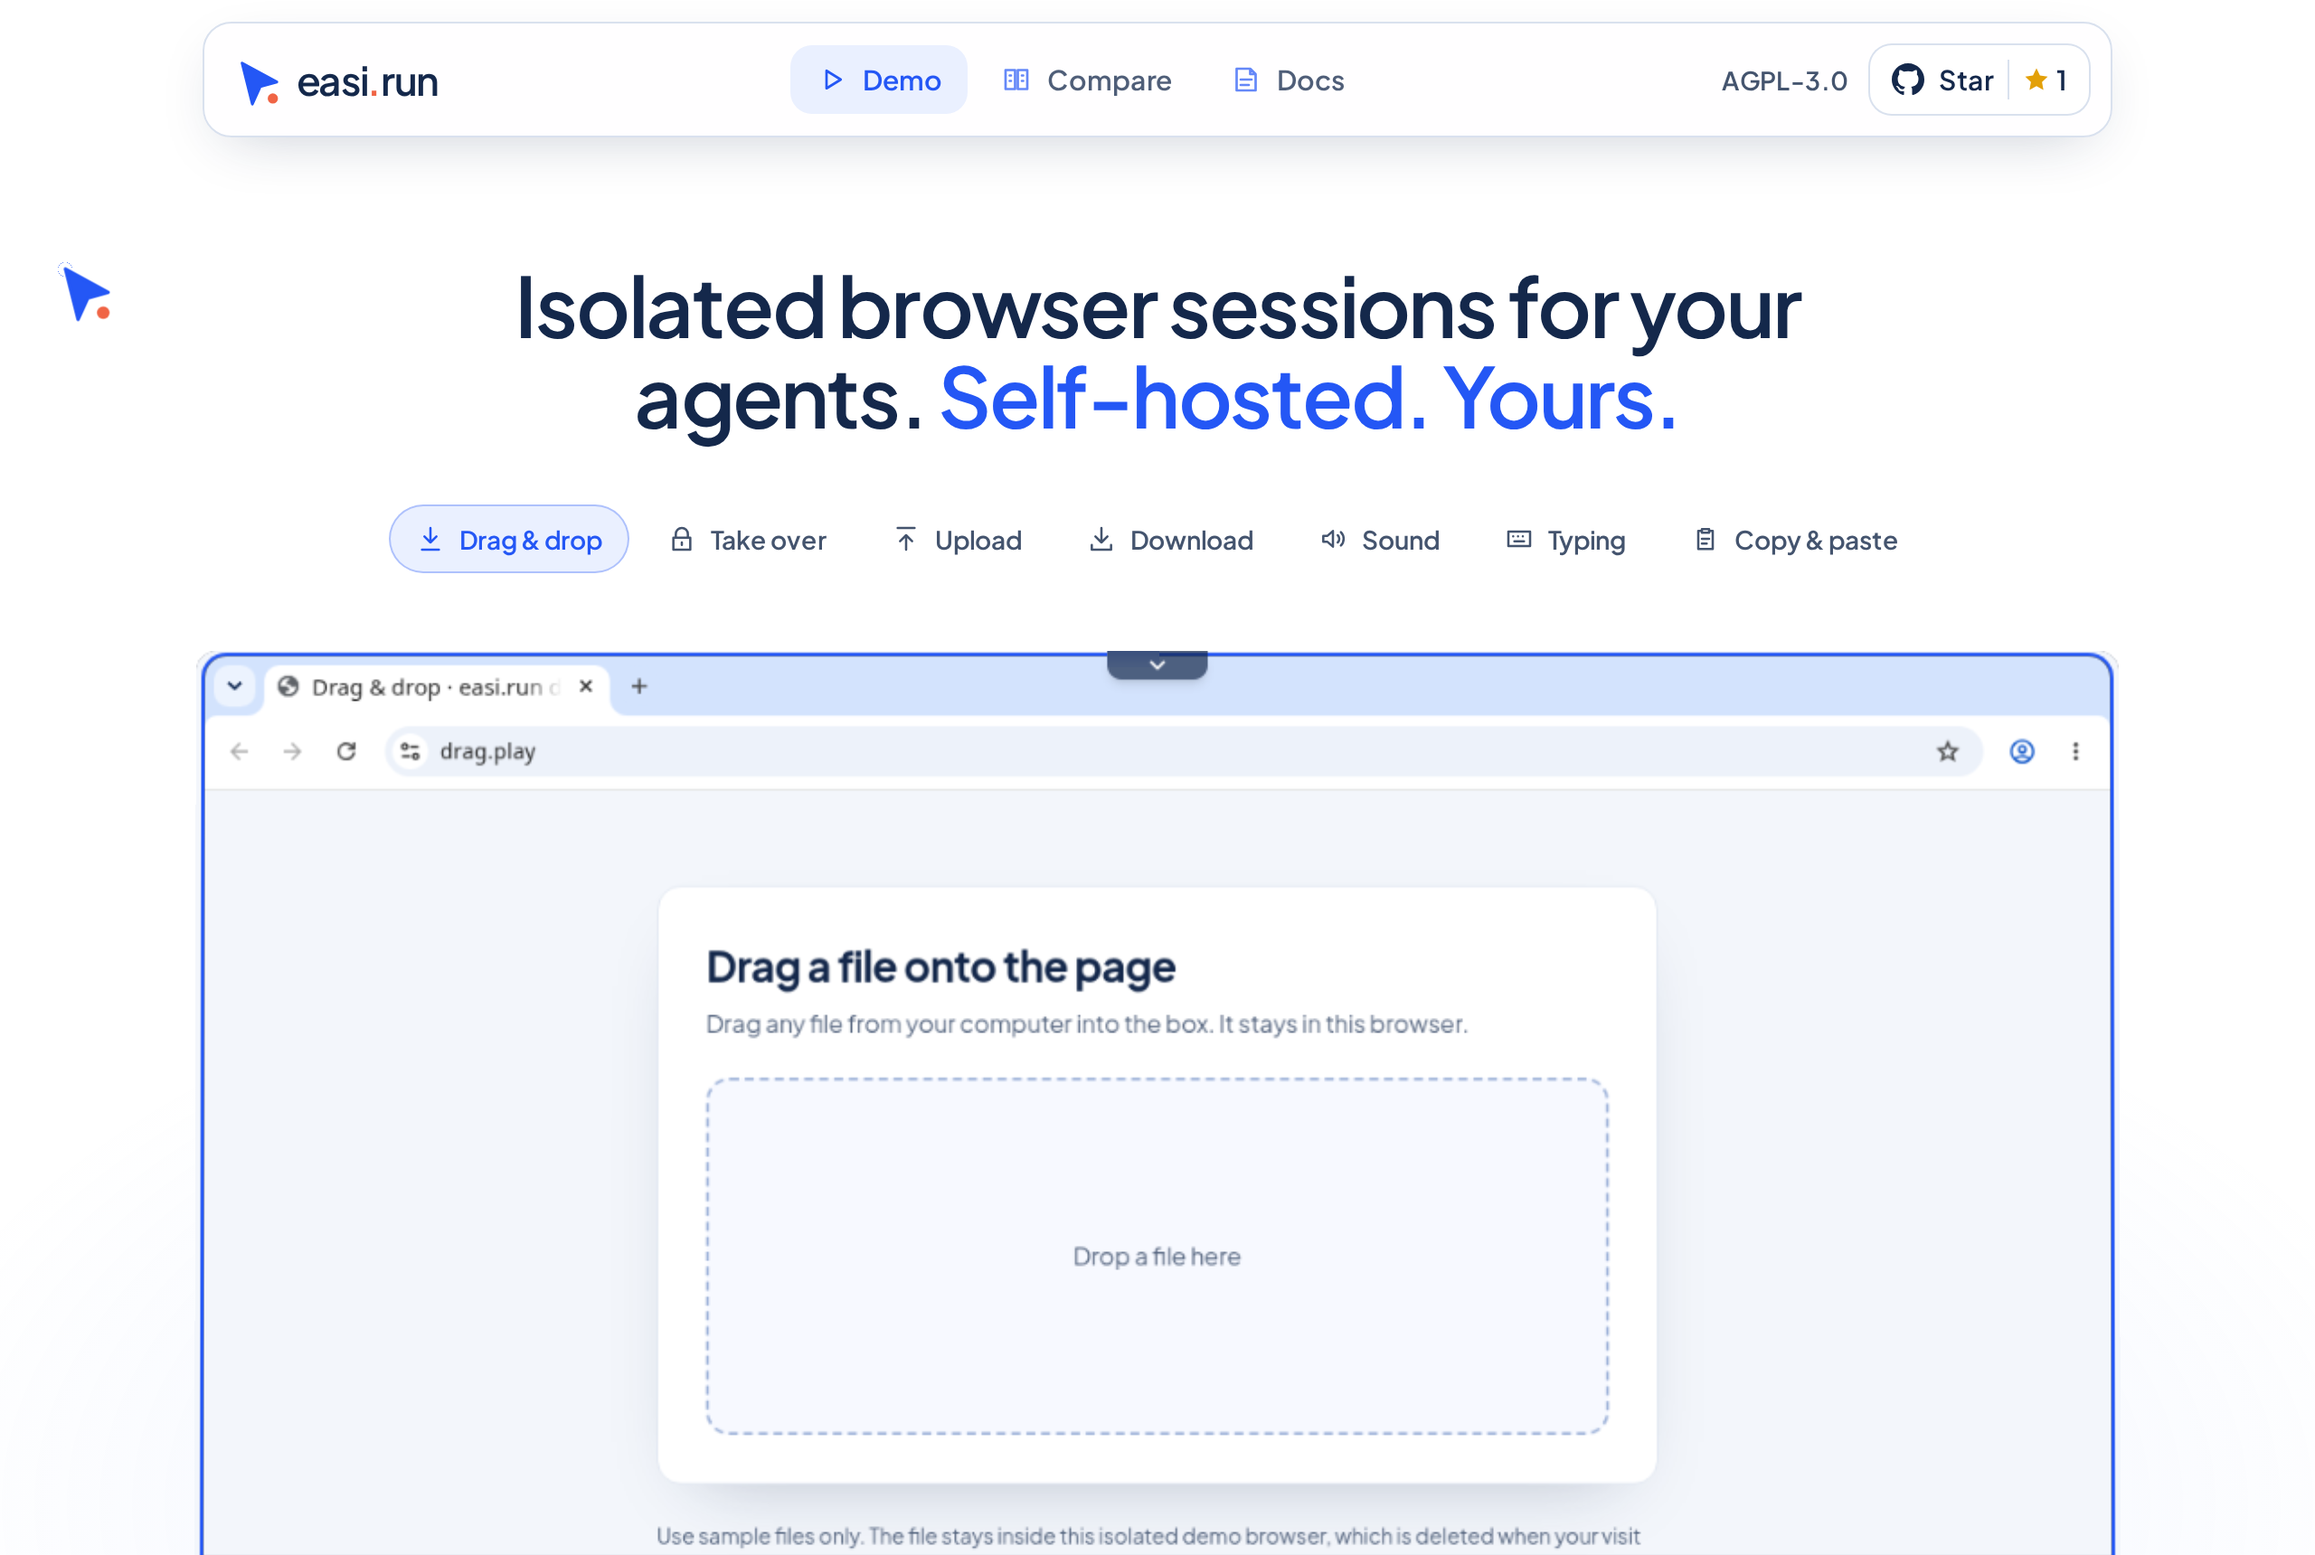
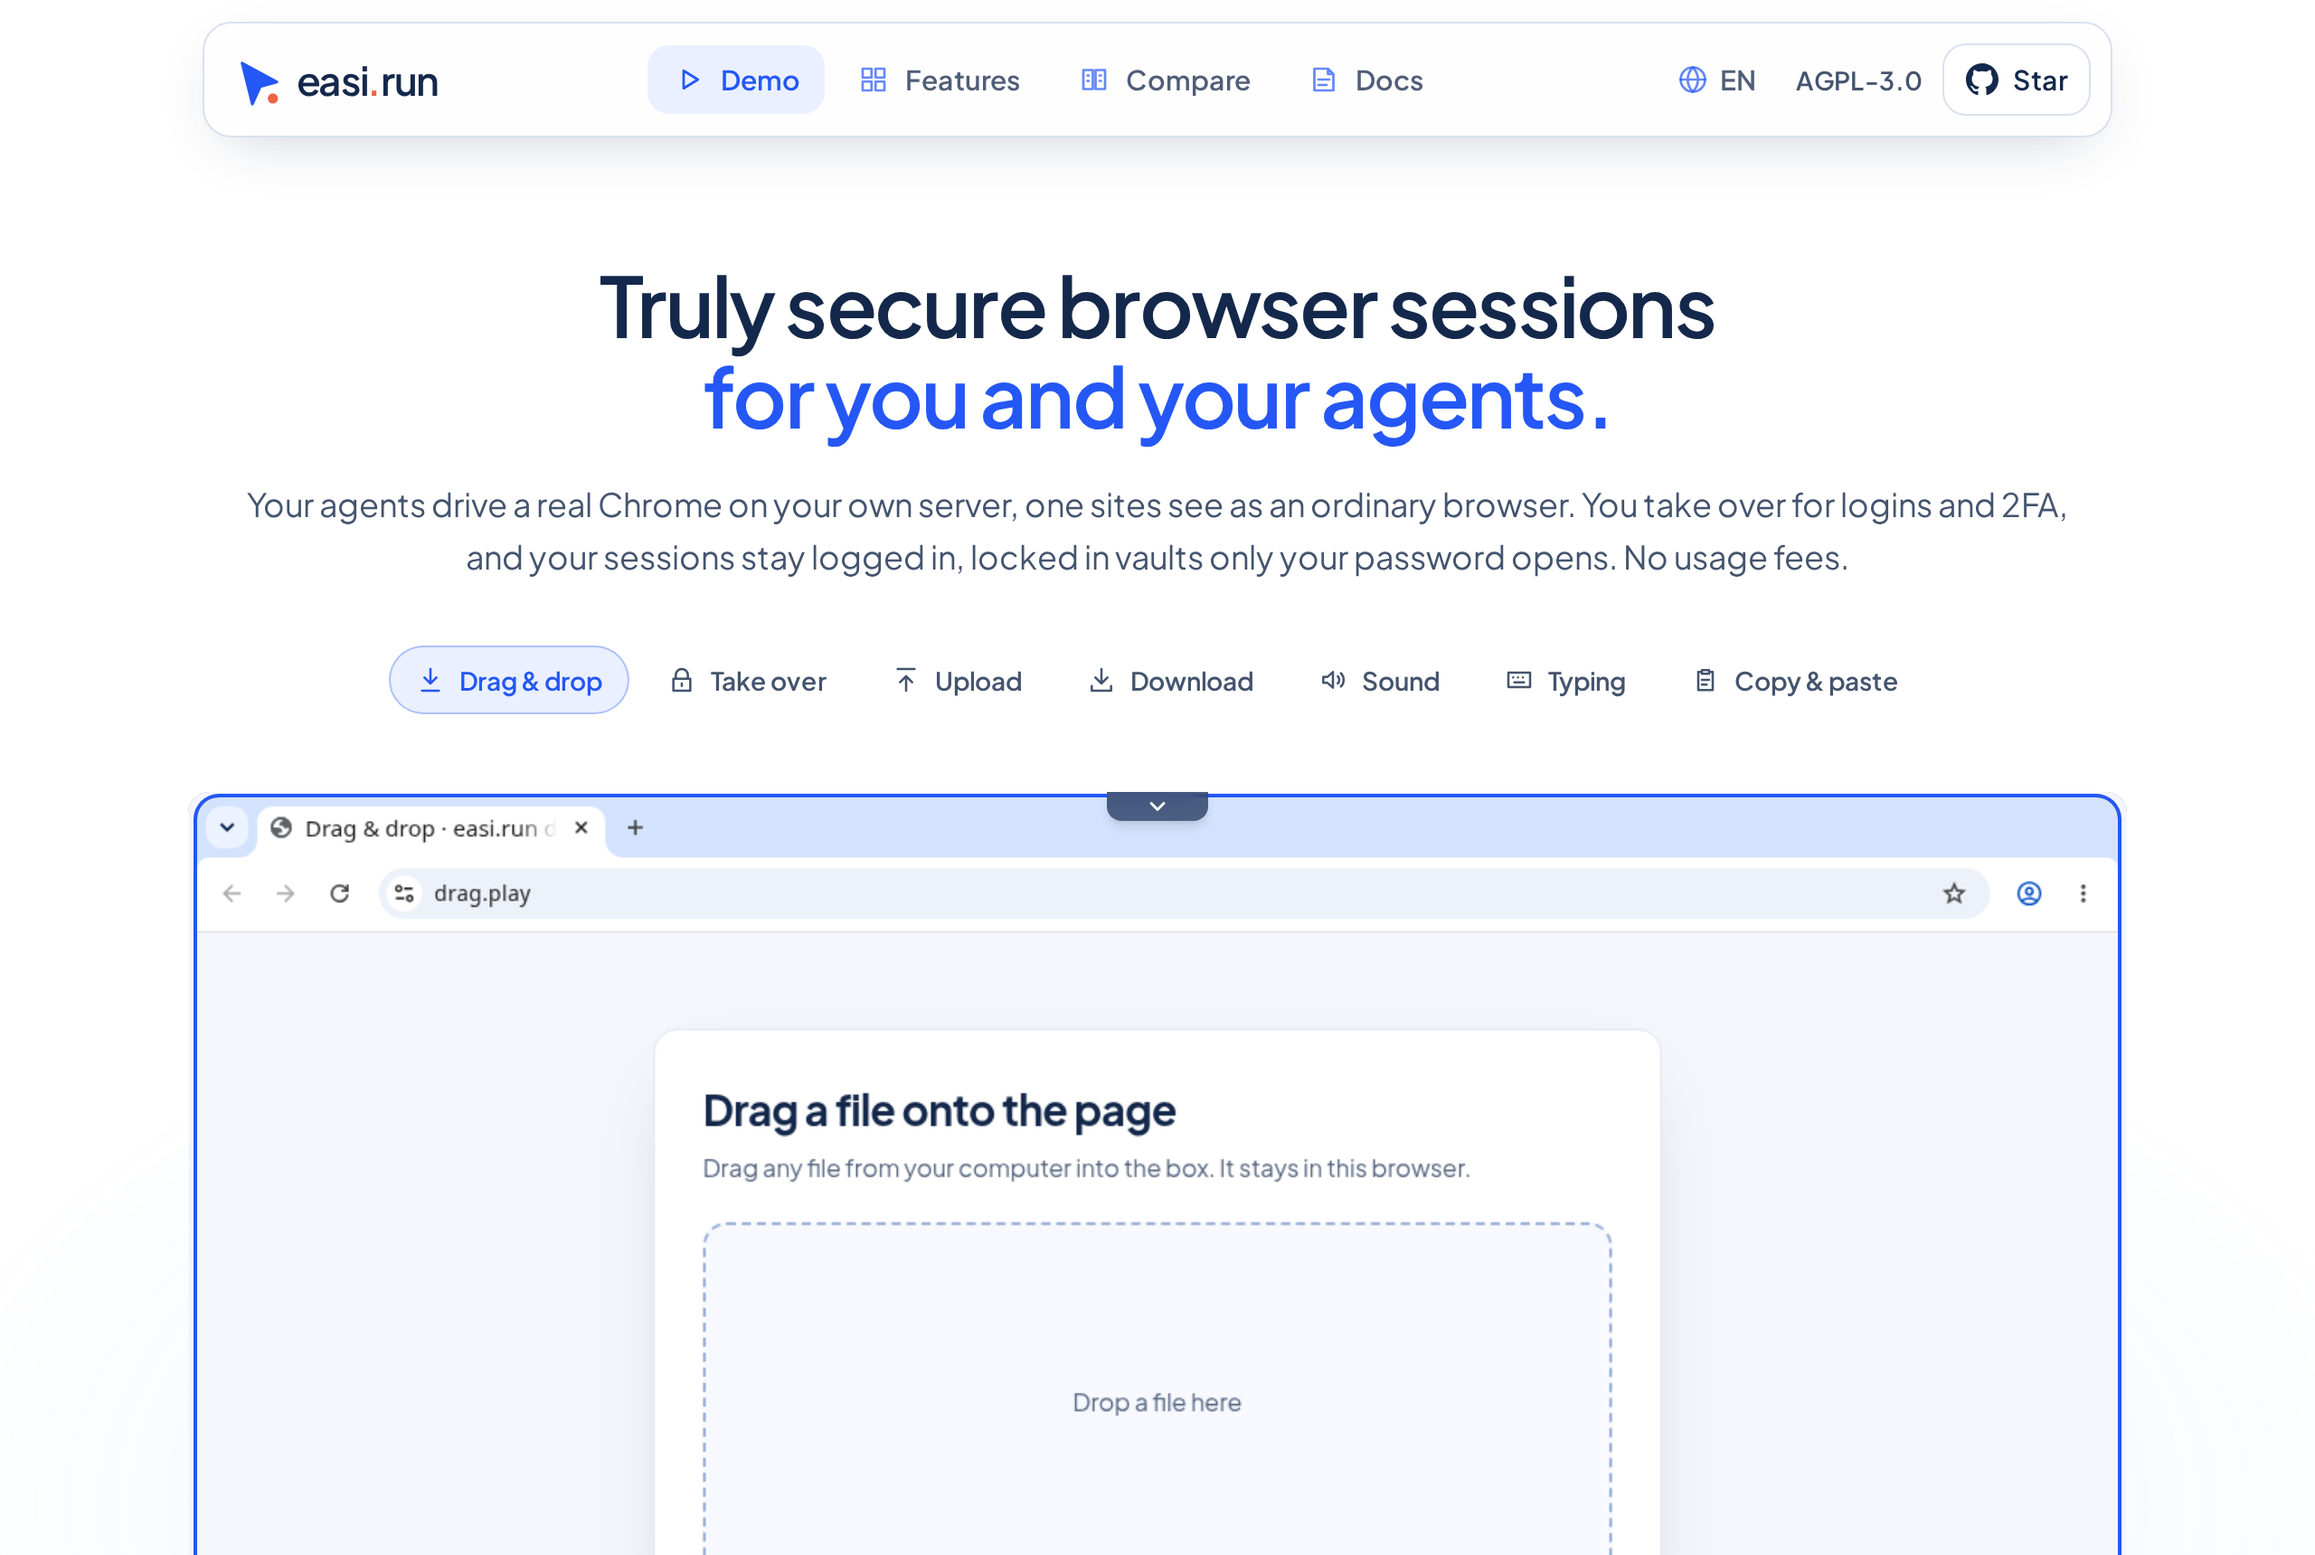
docs: Show the current landing in the README and correct what no longer holds
The README's picture showed the landing before its new headline and its
Features page; it now shows the page as it is, at the same size. Its
links name the Features page. The redaction, MCP, proxy and sign-in
lines now say exactly what the code does: password fields and exact
text, MCP with no token on the server or over SSH, a suggested time
zone and languages, and one count for wrong passwords and codes. The
requirements and the agent's install guide list every command the
installer needs, realpath among them; CONTRIBUTING and SECURITY catch
up with the notices' checks, pins per image flavour and saved sessions
an agent token may reach.

diff --git a/README.md b/README.md
@@ -17,8 +17,8 @@ a login, a 2FA code or a CAPTCHA. Then hand it back.
 [![Built with Rust](https://img.shields.io/badge/built_with-Rust-b7410e?logo=rust)](https://www.rust-lang.org)
 [![MCP](https://img.shields.io/badge/MCP-built--in-6e56cf)](https://docs.easi.run/#/agents)
 
-[**▶ Try the live demo**](https://easi.run/demo/) · [Documentation](https://docs.easi.run) ·
-[Quick start](#quick-start) · [Compare](https://easi.run/compare/)
+[**▶ Try the live demo**](https://easi.run/demo/) · [Features](https://easi.run/features/) ·
+[Documentation](https://docs.easi.run) · [Quick start](#quick-start) · [Compare](https://easi.run/compare/)
 
 <a href="https://easi.run/demo/"><img src="docs/assets/hero.png" alt="easi.run: a live Chrome session in your browser, with drag and drop, takeover, uploads, downloads, sound, typing, and copy and paste" width="860"></a>
 
@@ -42,8 +42,9 @@ on.
 - 🔑 **Stay logged in.** A persistent session brings back your logins, site data (caches aside), history and
   preferences each time you resume it, on any site that keeps you logged in when Chrome closes, encrypted with a key only your password
   unlocks ([how](docs/security.md#boundaries)).
-- 🔒 **Your passwords stay yours.** Text of four characters or more you type or paste while you are in control reaches
-  the agent as `[redacted]` ([how](docs/security.md#boundaries)).
+- 🔒 **What you type stays yours.** What's in a password field never reaches your agent. Once you take over,
+  screenshots stop, and the exact text you type or paste, four characters or more, reaches it as `[redacted]`
+  ([how](docs/security.md#boundaries)).
 - 🧱 **Every browser in its own sandbox.** Its own containers, no network of its own, and no way into your private
   network ([security model](docs/security.md)).
 - 🕵 **A real Chrome that sites treat as a real Chrome.** Google Chrome itself, clean on BrowserScan, sannysoft and
@@ -51,9 +52,12 @@ on.
 - 📁 **Files, sound and clipboard just work.** Drag a file onto the page, pick one with the page's own upload
   button, get downloads straight into your Downloads folder, hear the page, and copy and paste both ways.
 - 🎥 **Record a session** on the server in high quality, with your camera and microphone if you like.
-- 🤖 **Plugs into your agent.** A built-in [MCP server](https://docs.easi.run/#/agents) that works with Claude Code,
-  and a plain REST API, each with its own token per agent.
-- 🌍 **Your own proxy per session**, with the browser's time zone and languages set to match where it connects from.
+- 🤖 **Plugs into your agent.** A built-in [MCP server](https://docs.easi.run/#/agents) for Claude Code, Codex and any
+  MCP client: on your server or over SSH with no token, or over HTTPS with one token per agent. The same tools over a
+  plain REST API. The installer adds it to Claude Code for you when Claude Code is there and has no other server
+  named `easi`.
+- 🌍 **Your own proxy per session**, checked before use, with the browser's time zone and languages suggested from
+  where it exits.
 - ⚡ **Fast and light.** Crisp text, smooth video, and a fraction of the bandwidth of a VNC stream (numbers below).
 
 ## How it compares
@@ -97,7 +101,7 @@ covers 19 alternatives, with [the sources and notes](docs/comparison.md) (Octobe
 | | Minimum | Comfortable |
 |---|---|---|
 | Server | Any Linux x86-64 machine with Docker: a VPS from any cloud (Hetzner, DigitalOcean, AWS EC2 x86…) or your own server | |
-| Software | Docker Engine 28+ (rootful, run by docker.service) with Compose and Buildx, systemd, git, curl and flock | |
+| Software | Docker Engine 28+ (rootful, run by docker.service) with Compose and Buildx, systemd, git, curl, flock, iptables, ss, awk, stat, df, timeout and realpath | |
 | Account | A non-root user in the docker group (`sudo usermod -aG docker $USER`, then log in again); no sudo needed: the installer makes its few changes as root through a short-lived privileged Docker container, which Docker must allow | |
 | CPU | 2 cores | 4+ cores |
 | Memory | 4 GB (one browser session at a time) | 8 GB+ (2 sessions at once on 8 GB, 4 on 16 GB) |
@@ -157,8 +161,9 @@ in `~/easi.run`) for you to compare.
 Open `https://localhost:9443` (from your computer, through the SSH tunnel of step 2) right after the install: until a
 password is set, the admin's first screen asks for one. Choose it, 12 characters or more; you are logged in at once.
 
-- The admin keeps only its Argon2id hash. The fifth wrong password in a row starts a 2-second wait before the next
-  attempt, and each further wrong one doubles it, up to 256 seconds.
+- The admin keeps only its Argon2id hash. Wrong passwords and wrong second-step codes count together: the fifth
+  starts a 2-second wait before the next attempt, each further one doubles it, up to 256 seconds, and a completed
+  sign-in starts the count over.
 
 Next, the admin offers a second step at sign-in. It is optional, and we suggest it: with it on, your password alone
 opens nothing.
@@ -287,8 +292,9 @@ flowchart LR
     admin --> controller --> docker
 ```
 
-A small compositor written in Rust (`display`) draws Chrome's windows into its own memory. Text and still content
-travel as lossless tiles, motion as AV1 video, and the page's sound as Opus, over one HTTPS port, and over UDP
+A small compositor written in Rust (`display`) draws Chrome's windows into its own memory. Still content travels as
+lossless tiles; motion stays lossless while that is cheap, and otherwise streams as AV1 video that sharpens to
+pixel-perfect once motion stops; the page's sound travels as Opus, over one HTTPS port, and over UDP
 (WebTransport) where your network lets it through, which keeps the stream smooth on lossy networks. Only the viewer
 who holds control can type and click.
 

diff --git a/CONTRIBUTING.md b/CONTRIBUTING.md
@@ -26,8 +26,9 @@ the crates to lint and test, with every crate that depends on them; the other ch
 rebuild; and the end-to-end tests those images or a changed test need. Its docstring lists every kind of check.
 
 Documentation changes select nothing, except the generated license report (`docs/licenses.md` and `docs/sbom/`),
-which selects its check, `docs/benchmark.md`, which pins the Playwright image and selects the pins check, and the
-vendored crate's (anything under `third_party/`), which selects everything. A path the
+which selects its check, `docs/benchmark.md`, which pins the Playwright image and selects the pins check, the notices
+under `scripts/notices/`, which select the license check, the images that ship them and their end-to-end tests, and
+the vendored crate's (anything under `third_party/`), which selects everything. A path the
 script cannot place selects everything.
 
 ```sh
@@ -174,10 +175,10 @@ Every base image is pinned by digest, every downloaded archive by checksum, and 
   digest together, in every Dockerfile that uses it and in every file `scripts/pins.py` lists in `PINNED` (and
   `debian` in `install.sh`'s `ROOT_IMAGE` as well, whose `nsenter` runs the installer's root steps: the new image must
   still have it). A new Rust
-  version also updates `rust-toolchain.toml`; `scripts/pins.py` checks that each image has one tag and digest across
-  the Dockerfiles and those files, and that the `rust` image's version is the toolchain's. For a
-  new Playwright image, bump the `playwright` package in `bench/runner/package.json` (and its lock file) to the same
-  version.
+  version also updates `rust-toolchain.toml`; `scripts/pins.py` checks that each image flavour has one tag and digest
+  across the Dockerfiles and those files, that an image's flavours name the same version, and that the `rust` image's
+  version is the toolchain's. For a new Playwright image, bump the `playwright` package in
+  `bench/runner/package.json` (and its lock file) to the same version.
 - **SVT-AV1.** Update `VERSION` and `SHA256` in `scripts/svt-av1.sh`, then measure AV1 encode time with
   `cargo test -p display --release speed_at_1280x800 -- --ignored --nocapture` before and after.
 - **libopus.** Update `VERSION` and `SHA256` in `scripts/opus.sh` (Xiph publishes the checksums), then run the display

diff --git a/SECURITY.md b/SECURITY.md
@@ -28,7 +28,8 @@ In scope is anything that crosses a boundary listed in [`docs/security.md`](docs
 - injecting input without the lease;
 - reaching Docker other than through the controller's closed set;
 - defeating the admin application's authentication or CSRF protection;
-- reaching, with an agent token, a session it did not start or anything behind the administrator's login.
+- reaching, with an agent token, a session it neither started nor may reach through a saved session that allows it,
+  or anything behind the administrator's login.
 
 The hosted demo at <https://easi.run/demo/> is in scope too, including leaving its walled garden. Everyone shares it,
 so test it as an ordinary visitor: one visit at a time, and no load testing, denial of service, or automated scanning.

diff --git a/site/public/install.md b/site/public/install.md
@@ -12,7 +12,7 @@ the Linux server it runs on. easi.run runs real Chrome sessions for agents, whic
 
 2. Check all the software easi.run needs at once, before anything else, so that nothing is found missing one at a
    time:
-   - `git`, `curl`, `docker`, `ss`, `systemctl`, `awk`, `stat`, `df`, `timeout` and `flock` (`command -v`);
+   - `git`, `curl`, `docker`, `ss`, `systemctl`, `awk`, `stat`, `df`, `timeout`, `flock` and `realpath` (`command -v`);
    - `iptables`, also in `/usr/sbin` and `/sbin`, which the account's `PATH` may leave out;
    - Docker Engine 28 or later, run by `docker.service` (`docker version`, `systemctl is-active docker`), with the
      Docker Compose v2 and Buildx plugins (`docker compose version`, `docker buildx version`), and the account in the
